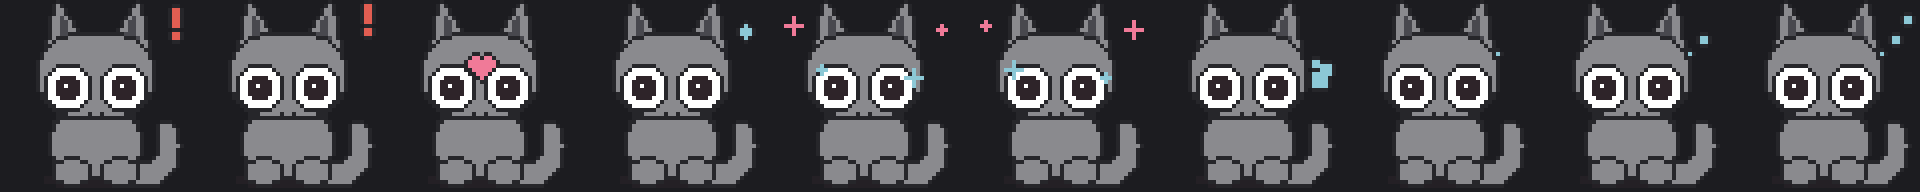
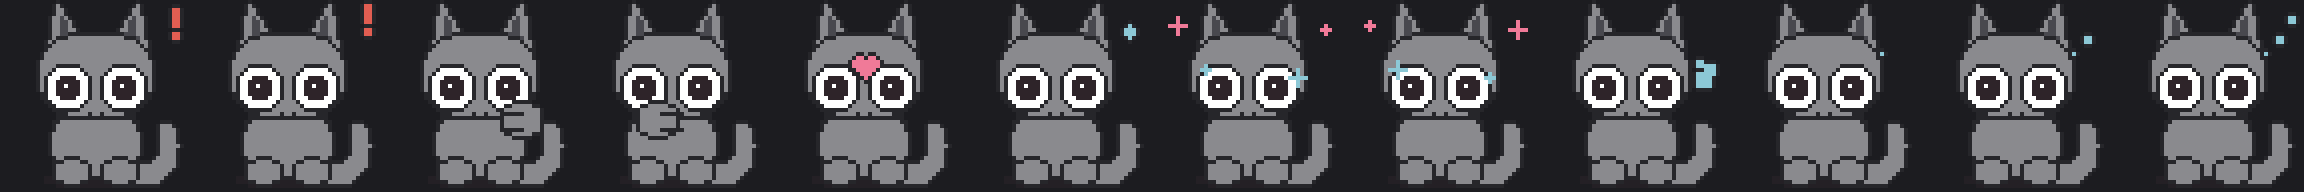
feat: give the parked cat a paw hooked over the screen edge
New art, not offsets. `grip_l` and `grip_r` are overlay sprites of a forepaw
curled round a vertical edge, drawn by generate_art.py to the same rules as
everything else and coloured like the real paws so a white-socked theme does not
end up with one grey paw.

An overlay rather than a body part buys three things: it stays out of the draw
order and the hit mask, it fades in with the park, and -- because overlays do
not take bodyOffset -- it stays pinned to the screen edge while the body tucks
away behind it. The cat slides back and the paw does not let go.

The sprite took three attempts and the failures are recorded in OVERLAY_G,
because each looked obviously right beforehand. Toe bumps along the rim were
invisible twice over: they sat past the cut, and where they showed at all they
were the colour of the pad they sat on. Dark toe beans then merged with the
pad's own outline into one thick edge -- at fifteen pixels across there is no
room between a bean and the rim it sits against. What works is grooves: short
lines cut in from the outer rim, which divide rather than decorate. And the pad
had to move up beside the face and shrink; across the chest it read as a slatted
box the cat was carrying.

Separately, and the more consequential find: reveal_px was measured against an
ink box that included the TAIL, which reaches to x=46 against a body that stops
at 36. So a left-edge park spent its whole budget on tail and on the empty notch
[…]

diff --git a/Sources/LoafCat/Modules/PeekModule.swift b/Sources/LoafCat/Modules/PeekModule.swift
@@ -124,6 +124,19 @@ final class PeekModule: CatModule, AtlasTuned {
     private var inkMaxX: CGFloat = 48
     private var inkHeight: CGFloat = 48
 
+    /// Parts that are drawn but do not count as "cat" when deciding how much of it to
+    /// leave on screen.
+    ///
+    /// The shadow for the obvious reason. The tail because it is an APPENDAGE that
+    /// reaches far past the body — 30..46 against a body that stops at 36 — so
+    /// measuring the reveal against it spends a left-edge park's whole budget on tail
+    /// and on the empty notch between tail and flank, and cuts the face in half.
+    /// Excluding it is also what makes the two edges symmetric: 9..24 on the right,
+    /// 24..39 on the left, one whole eye and one whole ear either way. The tail still
+    /// gets drawn, and on a left park it is now the part hanging off the screen, which
+    /// is exactly where a tail should be.
+    private static let notCat: Set<String> = ["shadow", "tail", "tail_hot"]
+
     func retune(_ atlas: Atlas) {
         func v(_ k: String, _ d: CGFloat) -> CGFloat { atlas.tune("peek", k, d) }
         edgeZonePx = v("edge_zone_px", edgeZonePx)
@@ -145,7 +158,7 @@ final class PeekModule: CatModule, AtlasTuned {
         var maxX = -CGFloat.greatestFiniteMagnitude
         var minY = CGFloat.greatestFiniteMagnitude
         var maxY = -CGFloat.greatestFiniteMagnitude
-        for (name, p) in atlas.parts where name != "shadow" {
+        for (name, p) in atlas.parts where !Self.notCat.contains(name) {
             minX = min(minX, p.origin.x)
             maxX = max(maxX, p.origin.x + p.size.width)
             minY = min(minY, p.origin.y)
@@ -358,6 +371,17 @@ final class PeekModule: CatModule, AtlasTuned {
         out.offset.y = sin(bobPhase * 2 * .pi) * bobPx * settled
         stage.headOffset.x -= toEdge * headLeanPx * settled
         stage.headOffset.y -= headRisePx * settled
+        // The paw hooked over the edge. An overlay rather than a body part, which
+        // gets it three things for free: it is not in the draw order or the hit mask,
+        // it can be faded in with the park, and — because overlays do not take
+        // `bodyOffset` — it stays pinned to the screen edge while the body tucks away
+        // behind it. That last one is the whole gag: the cat slides back, the paw
+        // does not let go.
+        let grip = edge == .right ? "grip_r" : "grip_l"
+        if atlas.overlays[grip] != nil {
+            stage.overlays.append(
+                OverlayInstance(part: grip, offset: .zero, alpha: settled))
+        }
         // The paw on the side still showing lifts to the edge, as if holding on to
         // it. The other one is behind the screen edge and would be lifting in
         // private.
@@ -543,21 +567,34 @@ extension PeekModule {
         //    hidden is the thing being aimed at; at reveal 20 both were on screen and
         //    it read as a window clipping a cat. Retuning past that is a design
         //    change and should have to argue with a failing check first.
-        let visibleTo = inkMinX + revealPx
-        func hides(_ name: String) -> Bool {
-            guard let p = atlas.parts[name] else { return true }
-            return p.origin.x >= visibleTo
+        // Both edges, separately. They are NOT mirror images of each other — the cat
+        // carries a tail on one side and nothing on the other — and assuming they
+        // were is exactly how a left-edge park came to spend its whole reveal on tail
+        // and cut the face in half.
+        let seenTo = inkMinX + revealPx        // right-edge park: 0..seenTo is on screen
+        let seenFrom = inkMaxX - revealPx      // left-edge park: seenFrom.. is on screen
+        func box(_ name: String) -> (lo: CGFloat, hi: CGFloat)? {
+            guard let p = atlas.parts[name] else { return nil }
+            return (p.origin.x, p.origin.x + p.size.width)
         }
-        func shows(_ name: String) -> Bool {
-            guard let p = atlas.parts[name] else { return false }
-            return p.origin.x + p.size.width <= visibleTo + 1
-        }
-        // Symmetric art, so checking the right-edge park checks both.
-        check("the near eye is on screen", shows("eye_l"))
-        check("the far eye is behind the edge", hides("eye_r"))
-        check("the near paw is on screen", shows("paw_l"))
-        check("the far paw is behind the edge", hides("paw_r"))
-        check("the tail is behind the edge", hides("tail"))
+        func showsR(_ n: String) -> Bool { box(n).map { $0.hi <= seenTo + 1 } ?? false }
+        func hidesR(_ n: String) -> Bool { box(n).map { $0.lo >= seenTo } ?? true }
+        func showsL(_ n: String) -> Bool { box(n).map { $0.lo >= seenFrom - 1 } ?? false }
+        func hidesL(_ n: String) -> Bool { box(n).map { $0.hi <= seenFrom } ?? true }
+
+        check("right park: the near eye and ear are on screen",
+              showsR("eye_l") && showsR("paw_l"))
+        check("right park: the far eye, far paw and tail are not",
+              hidesR("eye_r") && hidesR("paw_r") && hidesR("tail"))
+        check("left park: the near eye and paw are on screen",
+              showsL("eye_r") && showsL("paw_r"))
+        check("left park: the far eye and far paw are not",
+              hidesL("eye_l") && hidesL("paw_l"))
+        check("the two edges show the same amount of cat",
+              abs((seenTo - inkMinX) - (inkMaxX - seenFrom)) < 0.001,
+              "which is only true because the tail is excluded from the ink")
+        check("a gripping paw exists for each edge",
+              atlas.overlays["grip_l"] != nil && atlas.overlays["grip_r"] != nil)
 
         // 7. Live, and the only check here that needs a screen.
         let y = panel.frame.origin.y

diff --git a/windows/LoafCat/Modules/PeekModule.cs b/windows/LoafCat/Modules/PeekModule.cs
@@ -135,6 +135,19 @@ public sealed class PeekModule(CatWindow window) : ICatModule, IAtlasTuned
     private double _inkMaxX = 48;
     private double _inkHeight = 48;
 
+    /// Parts that are drawn but do not count as "cat" when deciding how much of it to
+    /// leave on screen.
+    ///
+    /// The shadow for the obvious reason. The tail because it is an APPENDAGE that
+    /// reaches far past the body — 30..46 against a body that stops at 36 — so
+    /// measuring the reveal against it spends a left-edge park's whole budget on tail
+    /// and on the empty notch between tail and flank, and cuts the face in half.
+    /// Excluding it is also what makes the two edges symmetric: 9..24 on the right,
+    /// 24..39 on the left, one whole eye and one whole ear either way. The tail still
+    /// gets drawn, and on a left park it is now the part hanging off the screen, which
+    /// is exactly where a tail should be.
+    private static readonly HashSet<string> NotCat = ["shadow", "tail", "tail_hot"];
+
     public void Retune(Atlas atlas)
     {
         double V(string k, double d) => atlas.Tune("peek", k, d);
@@ -157,7 +170,7 @@ public sealed class PeekModule(CatWindow window) : ICatModule, IAtlasTuned
         double minY = double.MaxValue, maxY = double.MinValue;
         foreach (var (name, p) in atlas.Parts)
         {
-            if (name == "shadow") continue;
+            if (NotCat.Contains(name)) continue;
             minX = Math.Min(minX, p.Origin.X);
             maxX = Math.Max(maxX, p.Origin.X + p.Size.W);
             minY = Math.Min(minY, p.Origin.Y);
@@ -375,6 +388,16 @@ public sealed class PeekModule(CatWindow window) : ICatModule, IAtlasTuned
         outv.Offset.Y = Math.Sin(_bobPhase * 2 * Math.PI) * _bobPx * _settled;
         stage.HeadOffset.X -= toEdge * _headLeanPx * _settled;
         stage.HeadOffset.Y -= _headRisePx * _settled;
+        // The paw hooked over the edge. An overlay rather than a body part, which gets
+        // it three things for free: it is not in the draw order or the hit mask, it can
+        // be faded in with the park, and — because overlays do not take `BodyOffset` —
+        // it stays pinned to the screen edge while the body tucks away behind it. That
+        // last one is the whole gag: the cat slides back, the paw does not let go.
+        string grip = edgeNow == PeekEdge.Right ? "grip_r" : "grip_l";
+        if (atlas.Overlays.ContainsKey(grip))
+        {
+            stage.Overlays.Add(new OverlayInstance(grip, Pt.Zero, _settled));
+        }
         // The paw on the side still showing lifts to the edge, as if holding on to it.
         // The other one is behind the screen edge and would be lifting in private.
         if (edgeNow == PeekEdge.Right) stage.PawOffsetL.Y -= _gripPx * _settled;
@@ -552,18 +575,43 @@ internal static class PeekDemo
         //    is the thing being aimed at; at reveal 20 both were on screen and it read
         //    as a window clipping a cat. Retuning past that is a design change and
         //    should have to argue with a failing check first.
-        double visibleTo = t.InkMinX + t.RevealPx;
-        bool Hides(string name) =>
-            !atlas.Parts.TryGetValue(name, out var p) || p.Origin.X >= visibleTo;
-        bool Shows(string name) =>
-            atlas.Parts.TryGetValue(name, out var p)
-            && p.Origin.X + p.Size.W <= visibleTo + 1;
-        // Symmetric art, so checking the right-edge park checks both.
-        Check("the near eye is on screen", Shows("eye_l"));
-        Check("the far eye is behind the edge", Hides("eye_r"));
-        Check("the near paw is on screen", Shows("paw_l"));
-        Check("the far paw is behind the edge", Hides("paw_r"));
-        Check("the tail is behind the edge", Hides("tail"));
+        // Both edges, separately. They are NOT mirror images of each other — the cat
+        // carries a tail on one side and nothing on the other — and assuming they were
+        // is exactly how a left-edge park came to spend its whole reveal on tail and
+        // cut the face in half.
+        double seenTo = t.InkMinX + t.RevealPx;     // right park: 0..seenTo is on screen
+        double seenFrom = t.InkMaxX - t.RevealPx;   // left park: seenFrom.. is on screen
+        bool Lo(string n, out double lo)
+        {
+            bool ok = atlas.Parts.TryGetValue(n, out var p);
+            lo = ok ? p.Origin.X : 0;
+            return ok;
+        }
+        bool Hi(string n, out double hi)
+        {
+            bool ok = atlas.Parts.TryGetValue(n, out var p);
+            hi = ok ? p.Origin.X + p.Size.W : 0;
+            return ok;
+        }
+        bool ShowsR(string n) => Hi(n, out double hi) && hi <= seenTo + 1;
+        bool HidesR(string n) => !Lo(n, out double lo) || lo >= seenTo;
+        bool ShowsL(string n) => Lo(n, out double lo) && lo >= seenFrom - 1;
+        bool HidesL(string n) => !Hi(n, out double hi) || hi <= seenFrom;
+
+        Check("right park: the near eye and paw are on screen",
+              ShowsR("eye_l") && ShowsR("paw_l"));
+        Check("right park: the far eye, far paw and tail are not",
+              HidesR("eye_r") && HidesR("paw_r") && HidesR("tail"));
+        Check("left park: the near eye and paw are on screen",
+              ShowsL("eye_r") && ShowsL("paw_r"));
+        Check("left park: the far eye and far paw are not",
+              HidesL("eye_l") && HidesL("paw_l"));
+        Check("the two edges show the same amount of cat",
+              Math.Abs((seenTo - t.InkMinX) - (t.InkMaxX - seenFrom)) < 0.001,
+              "which is only true because the tail is excluded from the ink");
+        Check("a gripping paw exists for each edge",
+              atlas.Overlays.ContainsKey("grip_l") && atlas.Overlays.ContainsKey("grip_r"),
+              "");
 
         // 7. A parked cat must still overlap the work area, or ClampIntoView will
         //    haul it back the next time a monitor is plugged in and the park will

diff --git a/tools/generate_art.py b/tools/generate_art.py
@@ -299,6 +299,42 @@ OVERLAY_G = {
     # Exclamation mark for "needs your permission". Deliberately the only red
     # glyph in the set -- it is the one the user has to act on.
     "alert": (43, 2),
+
+    # --- the paw that hooks over a screen edge while the cat peeks ---------
+    # Placed against the cut, not against the canvas. When the cat parks on the
+    # right, `reveal_px` of ink stays on screen and the screen edge therefore
+    # falls at canvas x = ink_min + reveal = 9 + 15 = 24; on the left it falls at
+    # ink_max - reveal = 46 - 15 = 31. Each paw is drawn so its wrist is well
+    # inside the visible band and its TOES cross the cut -- so the toes are half
+    # clipped by the edge itself, which is exactly what a paw hooked round a
+    # corner looks like from the near side. A paw drawn entirely inside the band
+    # would just be a paw; the clipping is the whole illusion.
+    #
+    # Mirrored about the ink's centre (27.5), not the canvas's (24), because the
+    # cat's ink is not centred in its canvas -- mirroring about 24 puts the left
+    # paw almost entirely outside the left band.
+    # Small, round, and high -- beside the face rather than across the chest. A
+    # big pad low down reads as a slatted box the cat is holding, not as a paw
+    # it is holding ON with; up at chin height next to one wide eye it reads the
+    # way a hand curled round a doorframe does. n=2.2 is the roundness the real
+    # paws use, and it is what stops it looking like a crate.
+    "grip_r": dict(cx=20.5, cy=30, w=10, h=8, n=2.2),
+    "grip_l": dict(cx=34.5, cy=30, w=10, h=8, n=2.2),
+    # Toe separations, as two grooves cut in from the outer edge of the pad.
+    #
+    # Two earlier attempts failed for opposite reasons and both are worth not
+    # repeating. Bumps along the rim were invisible: they sat past the cut, and
+    # where they showed at all they were the colour of the pad they sat on, so
+    # the paw read as one more lump of body. Dark beans then merged with the
+    # pad's own outline into a single thick edge, because at fifteen pixels
+    # across there is no room between a bean and the rim it sits against.
+    # A groove has no such problem -- it is a line, it starts at the rim, and it
+    # divides rather than decorates.
+    # Short, and only across the outer half: a groove that runs the full width of
+    # the pad divides it into slats, where one that starts at the rim and stops
+    # halfway divides it into toes.
+    "grip_grooves_r": [(21, 28, 26), (21, 32, 26)],   # (x0, y, x1)
+    "grip_grooves_l": [(29, 28, 34), (29, 32, 34)],
 }
 
 
@@ -406,6 +442,27 @@ def build_overlays():
                 px(img, 21 + dx, 14 + dy, "heart")
     outline(img)
     add("heart", img, slots=3)
+
+    # --- peeking: a forepaw hooked over the screen edge -------------------
+    # The one piece of art that exists to be half off screen. See OVERLAY_G for
+    # why each is placed against its own cut rather than symmetrically.
+    #
+    # Coloured like the real paws, white-socked cats included, because it IS a
+    # paw -- a theme that gives the cat white socks and then a grey gripping paw
+    # would look like two different animals.
+    for side in ("l", "r"):
+        img = new_layer()
+        spans = superellipse_spans(**OVERLAY_G[f"grip_{side}"])
+        white = f"paw_{side}" in WHITE_PARTS
+        fill_spans(img, spans, "muzzle" if white else "coat_hi")
+        shade_spans(img, spans, "coat_sh" if white else "coat", depth=1)
+        # Outline the pad FIRST, then cut the grooves, so they read as divisions
+        # in one paw rather than as three separate shapes each given their own
+        # outline -- which at this size is three blobs in a row, not a paw.
+        outline(img)
+        for x0, y, x1 in OVERLAY_G[f"grip_grooves_{side}"]:
+            block(img, x0, y, x1, y, "outline")
+        add(f"grip_{side}", img)
 
     return ov
 
